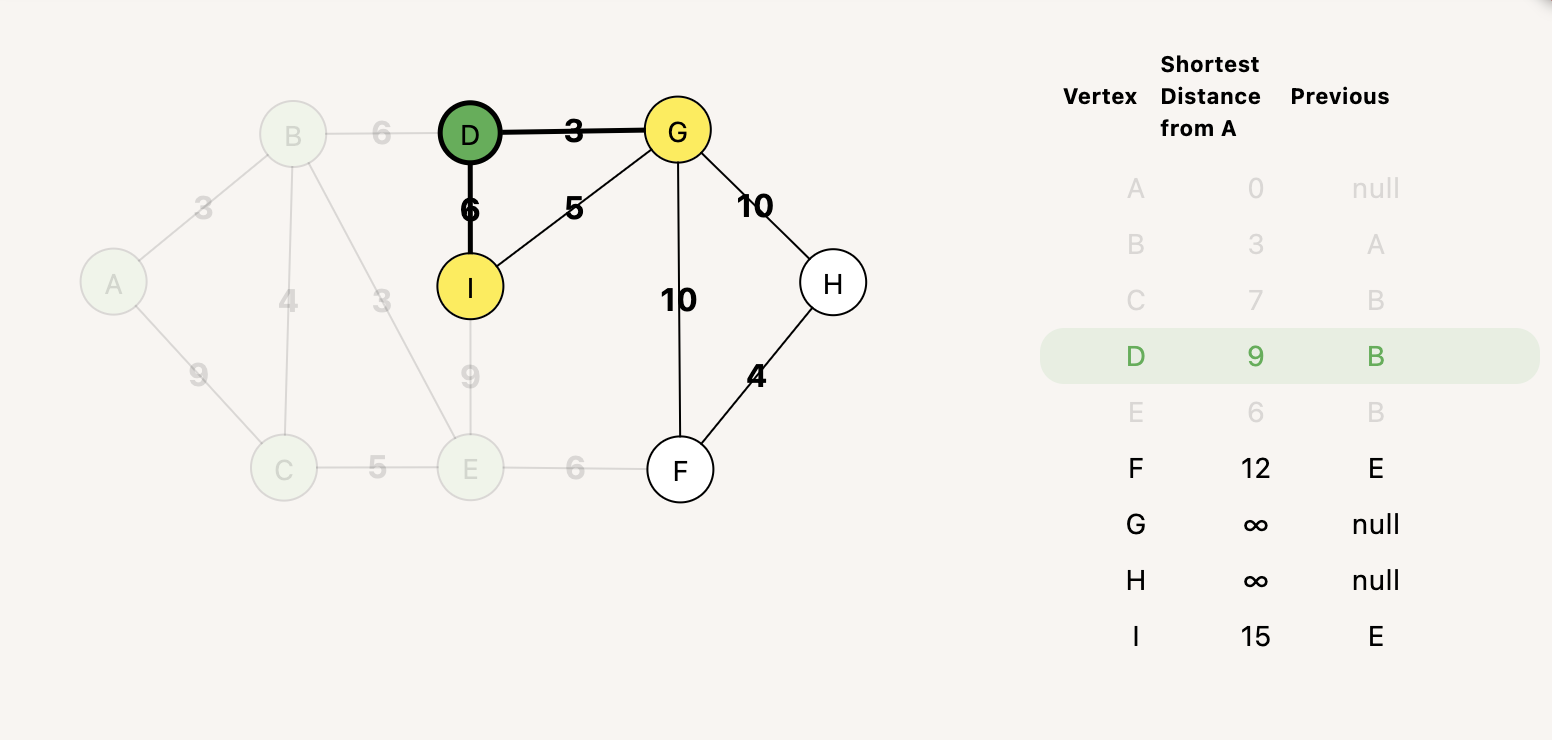
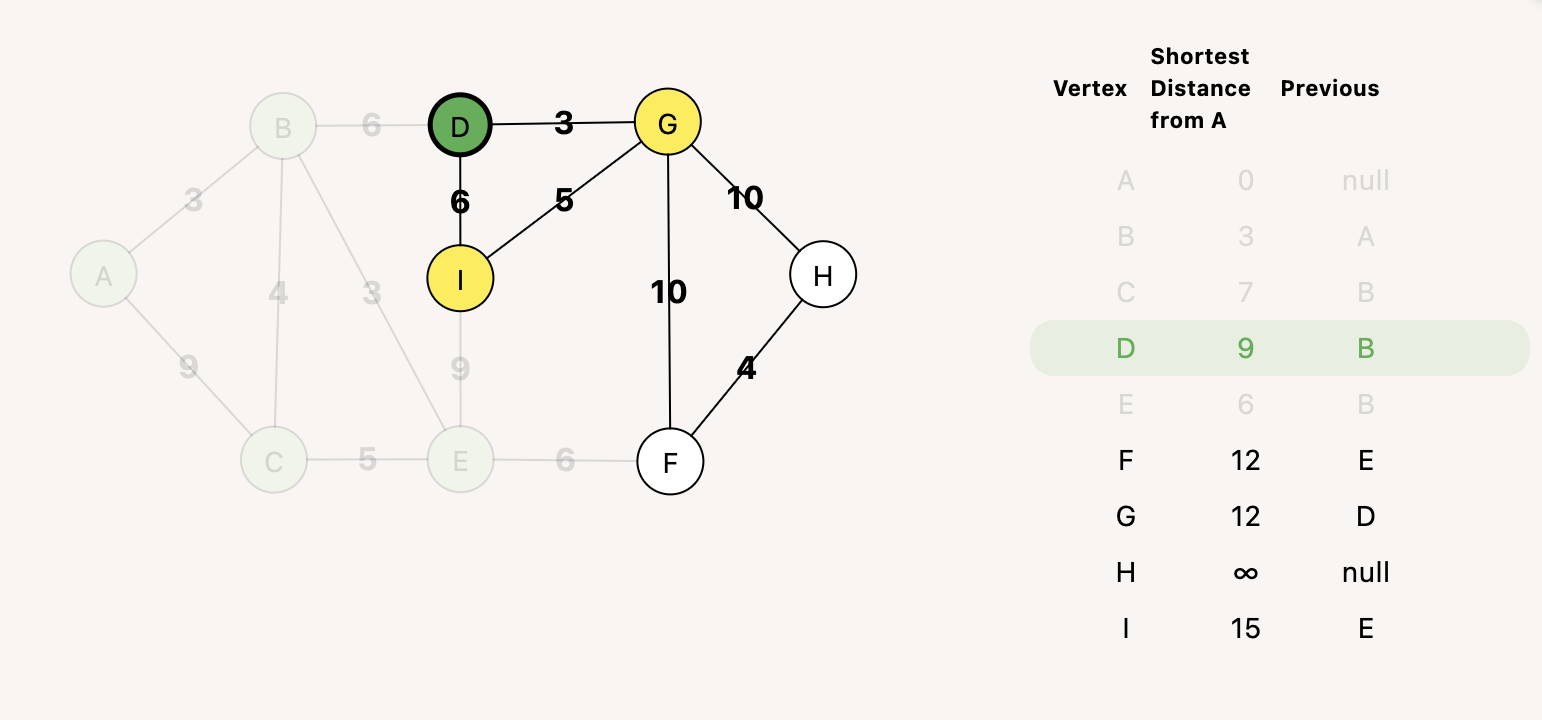
Update test questions

diff --git a/lib/features/test/repository/test_repository.dart b/lib/features/test/repository/test_repository.dart
@@ -3,12 +3,12 @@ import 'package:algorithm_visualizer/features/test/models/graph_test.dart';
 List<GraphTest> questions = [
   const GraphTest(
     id: 1,
-    question: "Considering the graph and the table above, assuming the neighbouring vertex G and I have been evaluated and their distances from the starting vertex has been updated, what would be the next vertex to visit? Which vertex will be visited next? (Previously explored vertices are shown in faint green)",
+    question: "Considering the graph and the table above, assuming the neighbouring vertex G and I have been evaluated and their distances from the starting vertex has been updated in the table, which vertex will be visited next? (Previously explored vertices are shown in a faint color)",
     imagePath: "assets/images/graph1.png",
     options: [
-      'G',
+      'G', // Correct answer
+      'H',
       'I',
-      'B',
       'I have no idea',
     ],
   ),
@@ -30,9 +30,9 @@ List<GraphTest> questions = [
     question: "After visiting vertex E, which of its neighbouring vertices will have their shortest distance updated?",
     imagePath: "assets/images/graph3.png",
     options: [
-      'C',
-      'I',
-      'F',
+      'C', // Neighbor but not updated
+      'I', // Correct answer
+      'F', // Correct answer
       'I have no idea',
     ],
   ),
@@ -61,24 +61,24 @@ List<GraphTest> questions = [
   ),
   const GraphTest(
     id: 6,
-    question: "Using the graph, what is the shortest distance from vertex X to the start vertex X?",
+    question: "Using the graph, what is the shortest distance from vertex G to the start vertex A?",
     imagePath: "assets/images/graph5.png",
     options: [
-      '4',
       '2',
-      '6',
-      'Not obtainable',
+      '3',
+      '4', // Correct answer
+      'I have no idea',
     ],
   ),
   const GraphTest(
     id: 7,
-    question: "Using the graph, what vertices are along the shortest path from vertex X to vertex X?",
+    question: "Using the graph, what vertices are along the shortest path from vertex G to vertex A?",
     imagePath: "assets/images/graph5.png",
     options: [
-      '4',
-      '2',
-      '6',
-      'Not obtainable',
+      'ADG', // Correct answer
+      'ACFG',
+      'ABEG',
+      'I have no idea',
     ],
   ),
 ];
